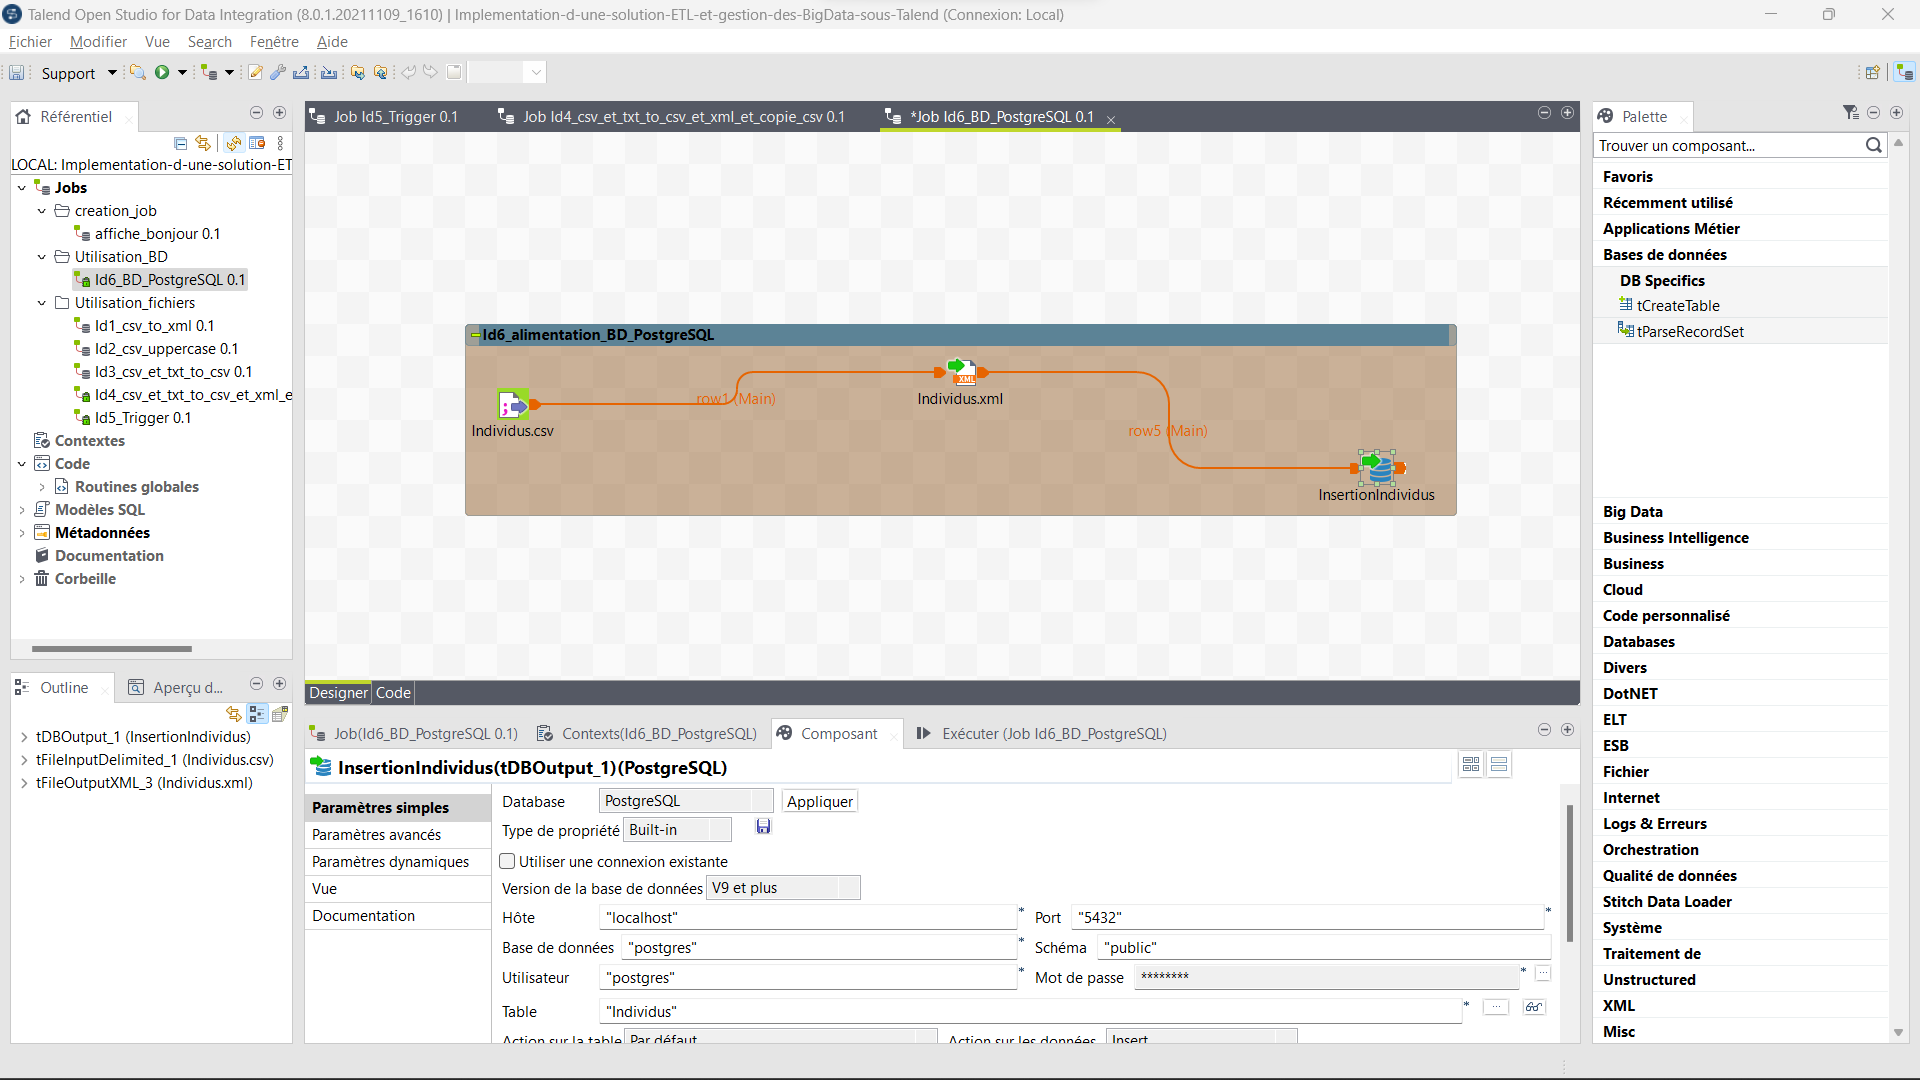
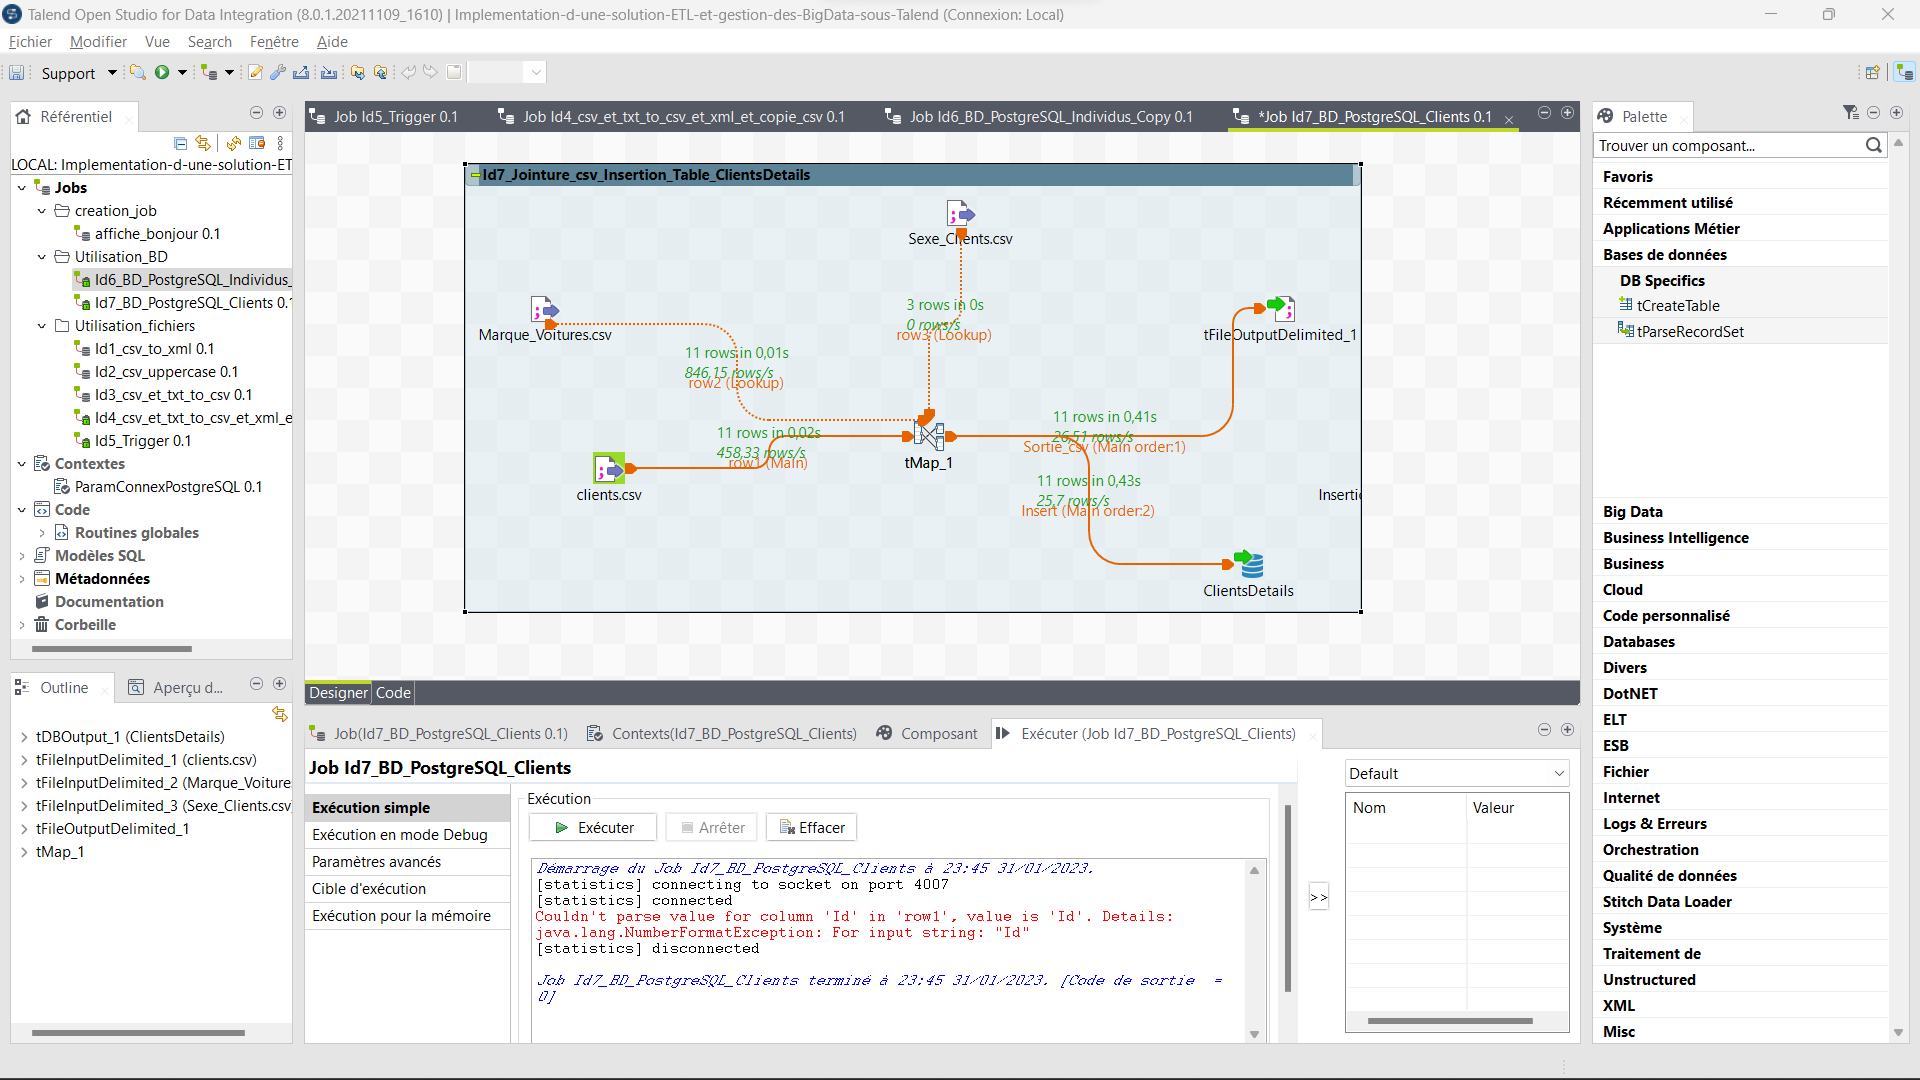
add job Id7 DB

diff --git a/README.md b/README.md
@@ -62,15 +62,16 @@ Jobs | Composant_Inputs | Composant_Outputs | Description du job                
 | Id3 | [Fichier_Individus.csv](/Inputs/Fichier_Individus.csv) & [Activite_Individus.txt](/Inputs/Activite_Individus.txt)| [Id3IndividuOutput.csv](/Outputs/Id3IndividuOutput.csv) & [Id3IndividuOutput.xml](Outputs/Id3IndividuOutput.xml)| csv + txt to csv & xml. <br>  Ajout de la colone type_sport présente dans txt au fichier csv|
 | Id4 | [Data](/Data)| [Data_csv](data/Data_csv/)| connexion de type Iterate qui copie (ou déplace) les fichiers .csv du dossier [Data](/Data) et les enregistre dans un sous fichier de csv [Data_csv](data/Data_csv/)|
 | Id5 | Id3| Id4| Trigger qui se déclenche si le job Id3 est OK pour exécuter le sous-job Id4|
-| Id6 | [Fichier_Individus.csv](/Inputs/Fichier_Individus.csv)| Table `Individus` de la BD PostgreSQL| Alimentation d'une table BD PostgreSQL à partir d'un fichier csv|
+| Id6 | [Fichier_Individus.csv](/Inputs/Fichier_Individus.csv)| Table `Individus` de la BD PostgreSQL| Alimentation de la table BD PostgreSQL `Individus` à partir du fichier csv [Fichier_Individus.csv](/Inputs/Fichier_Individus.csv)|
+| Id7 | [clients.csv](Inputs/clients.csv) & [SexePersonne.csv](Inputs/SexePersonne.csv) & [MarqueVoiture.csv](Inputs/MarqueVoiture.csv)| Table ``ClientsDetails`` de la BD PostgreSQL| Jointure entre trois fichiers csv : [clients.csv](Inputs/clients.csv), [SexePersonne.csv](Inputs/SexePersonne.csv), [MarqueVoiture.csv](Inputs/MarqueVoiture.csv) et Insertion dans la table de la BD PostgreSQL ``ClientsDetails``|
 ## Taches réalisées
 
 - Créations et configuration des **jobs** composée de plusieurs composants reliés par des connexions
 - Exécution des jobs et débogage du code
 - Transformation sur des fichiers csv, xml, txt et xlsx
 - Implémenter des Trigger qui se déclenchent lors d'événements
-- Ajout des contextes aux différentes composantes
-- Manipulations des tables de bases de données relationnelles
+- Ajout des contextes pour automatiser le travail
+- Alimentation des tables de bases de données relationnelles
 
 ## Visualisation des processus
 
@@ -80,7 +81,7 @@ Jobs | Composant_Inputs | Composant_Outputs | Description du job                
 - Job Id5 (Trigger) :
 <img src="/Captures/Exemple2.png">
 
-- Job Id6 (BD PostgreSQL) :
+- Job Id7 (BD PostgreSQL) :
 <img src="/Captures/Exemple3.png">
 <img src="/Captures/Exemple3_2.png">
 
